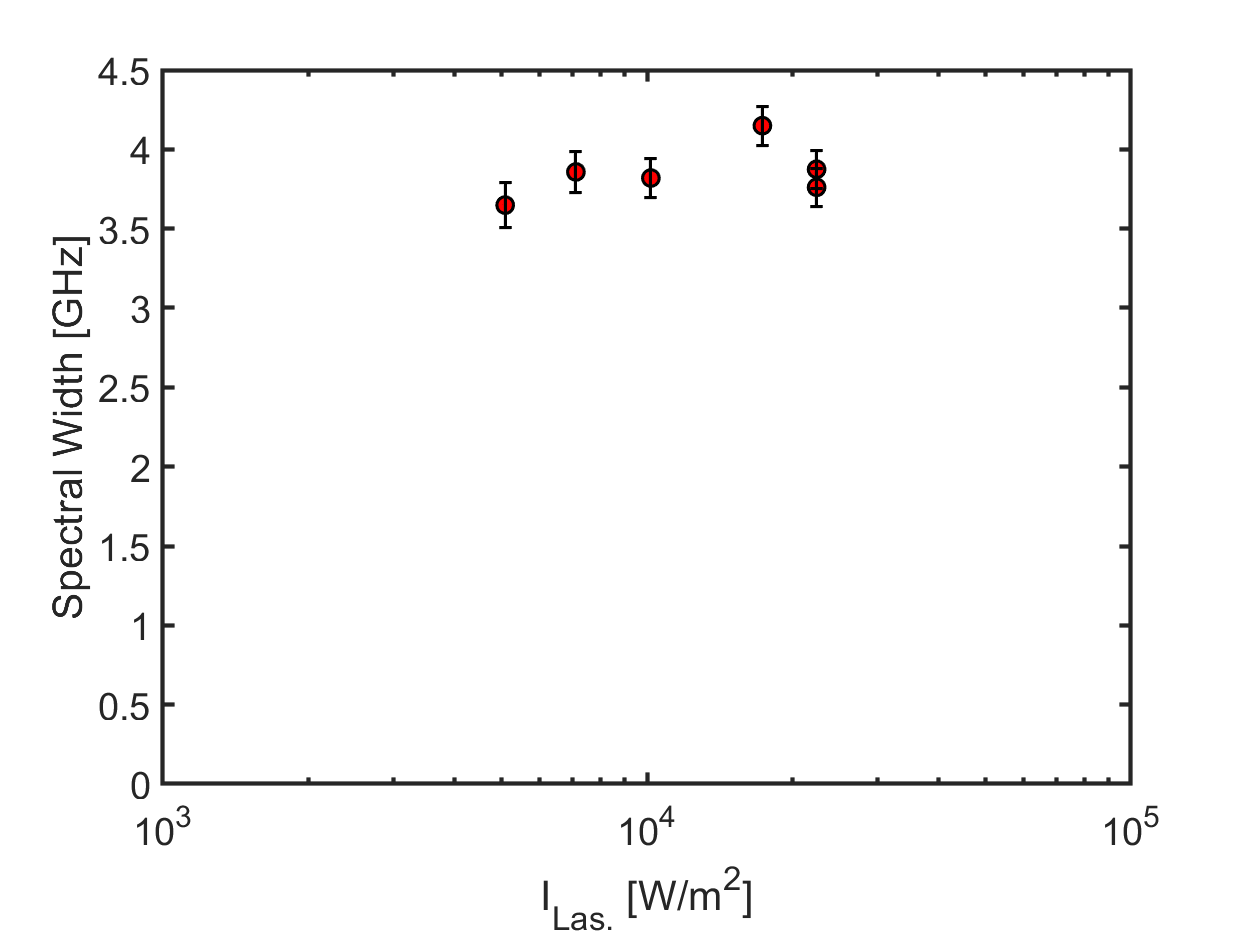
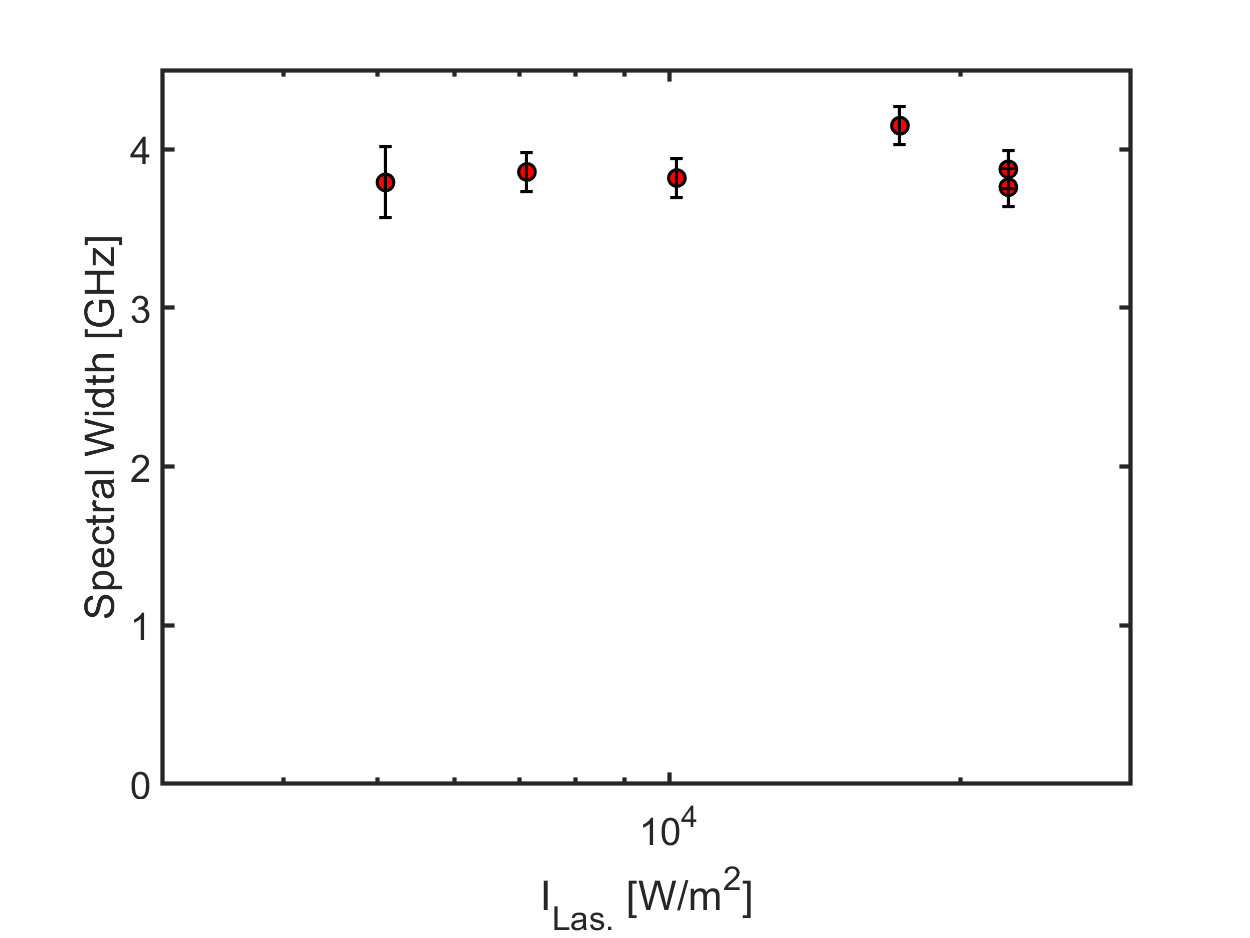
ADDING FWHM MATLAB figures; REPLACING LaserSaturation image and error prop in saturation analysis script

diff --git a/data/makeLaserSaturationPlot.m b/data/makeLaserSaturationPlot.m
@@ -11,8 +11,8 @@ function [] = makeLaserSaturationPlot()
 %----% USER EDIT %----%
 FILEDIRECTORY                                               = 'Results\';
 SAVEDIRECTORY                                               = 'Results\';
-POWERS                                                      = [0.0022 0.0022 0.0017 0.001 0.0007 0.0005];
-FILENUMBERS                                                 = [112 113 124 119 120 122];
+POWERS                                                      = [0.0022 0.0022 0.0017 0.001 0.0007 0.0005]; % Watts
+FILENUMBERS                                                 = [112 113 124 119 120 122]; 
 %----% END USER EDIT %----%
 
 % check for save directory
@@ -23,11 +23,11 @@ end
 % make laser intensity array
 INTENSITIES                                                 = (2.*POWERS)/(pi*0.00025^2);
 FWHM                                                        = zeros(1, length(INTENSITIES));
-FILESTD                                                     = zeros(1, length(INTENSITIES));
+FILESTD                                                     = [0 0 0 0 0 0.1895]; % manually added by T.E.S.
 COUNTER                                                     = 1;
 
 for i = FILENUMBERS
-    [FWHM(COUNTER), FILESTD(COUNTER)]                       = findFWHM(i, FILEDIRECTORY);
+    FWHM(COUNTER)                       = findFWHM(i, FILEDIRECTORY);
     COUNTER                                                 = COUNTER + 1;
 end
 ERROR                                                       = sqrt(((0.120*ones(1, length(FWHM))./FWHM).^2) + ((FILESTD./FWHM).^2));
@@ -38,10 +38,10 @@ semilogx(INTENSITIES, FWHM, 'LineStyle', 'none', 'Marker', 'o', 'MarkerFaceColor
 hold on
 errorbar(INTENSITIES, FWHM, ERROR.*FWHM, ERROR.*FWHM, 'LineStyle', 'none', 'Color', 'black', 'LineWidth', 1.5)
 ylim([0 4.5])
-xlim([1e3 1e5])
+xlim([3e3 3e4])
 xlabel('I_{Las.} [W/m^2]', 'FontSize', 18)
 ylabel('Spectral Width [GHz]', 'FontSize', 18)
-set(gca, 'FontSize', 18, 'LineWidth', 2)
+set(gca, 'FontSize', 18, 'LineWidth', 2, 'ytick', [0 1 2 3 4])
 
 % save directory
 print([SAVEDIRECTORY 'LaserSaturation'], '-dpng')
@@ -51,7 +51,7 @@ close all
 end
 
 %% FWHM function
-function [FWHM, FILESTD] = findFWHM( varargin )
+function [FWHM] = findFWHM( varargin )
 %% Comments
 % this script will take the data from Matt's capstone and determine the 
 % 'FWHM'.
@@ -81,9 +81,27 @@ if LEFT < 0
 elseif RIGHT > length(RELATIVEFREQUENCY)
     RIGHT                                                   = length(RELATIVEFREQUENCY);
 end
+
 [~, INDEX1]                                                 = min(abs(0.5 - NORMALIZEDSIGNAL(LEFT:(LEFT+200))));
 [~, INDEX2]                                                 = min(abs(0.5 - NORMALIZEDSIGNAL(MAXINDEX:RIGHT)));
+if FILENUMBER == 122
+    FWHM                                                    = abs(RELATIVEFREQUENCY(INDEX1 + LEFT) - 0.4012); % hard code by T.E.S.
+else
+    FWHM                                                    = abs(RELATIVEFREQUENCY(INDEX1 + LEFT) - RELATIVEFREQUENCY(INDEX2 + MAXINDEX));
+end
 
-FWHM                                                        = abs(RELATIVEFREQUENCY(INDEX1 + LEFT) - RELATIVEFREQUENCY(INDEX2 + MAXINDEX));
-FILESTD                                                     = std(NORMALIZEDSIGNAL(900:1000));
+figure('Position', [50 50 800 600], 'Color', 'white')
+box on
+hold on
+plot(RELATIVEFREQUENCY, NORMALIZEDSIGNAL, 'LineWidth', 2, 'Color', 'black')
+plot([RELATIVEFREQUENCY(INDEX1 + LEFT); RELATIVEFREQUENCY(INDEX2 + MAXINDEX)], [NORMALIZEDSIGNAL(INDEX1 + LEFT); NORMALIZEDSIGNAL(INDEX2 + MAXINDEX)], 'LineStyle', 'none', 'Marker', 'o', 'MarkerEdgeColor', 'black', 'MarkerFaceColor', 'red')
+xlabel('\Deltaf [GHz]', 'FontSize', 18)
+ylabel('Signal [arb.]', 'FontSize', 18)
+set(gca, 'FontSize', 18, 'LineWidth', 1.5)
+
+% save 
+print(['Results\FWHM-' num2str(FILENUMBER)], '-dpng')
+
+% close
+close all
 end
